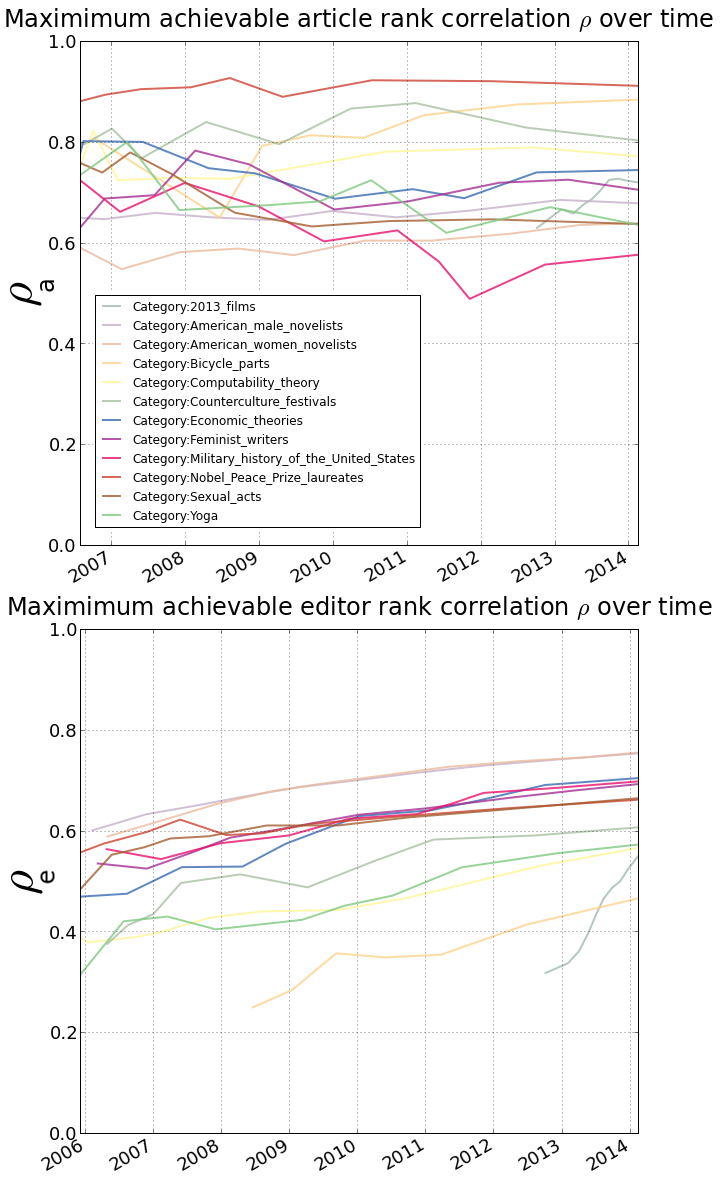
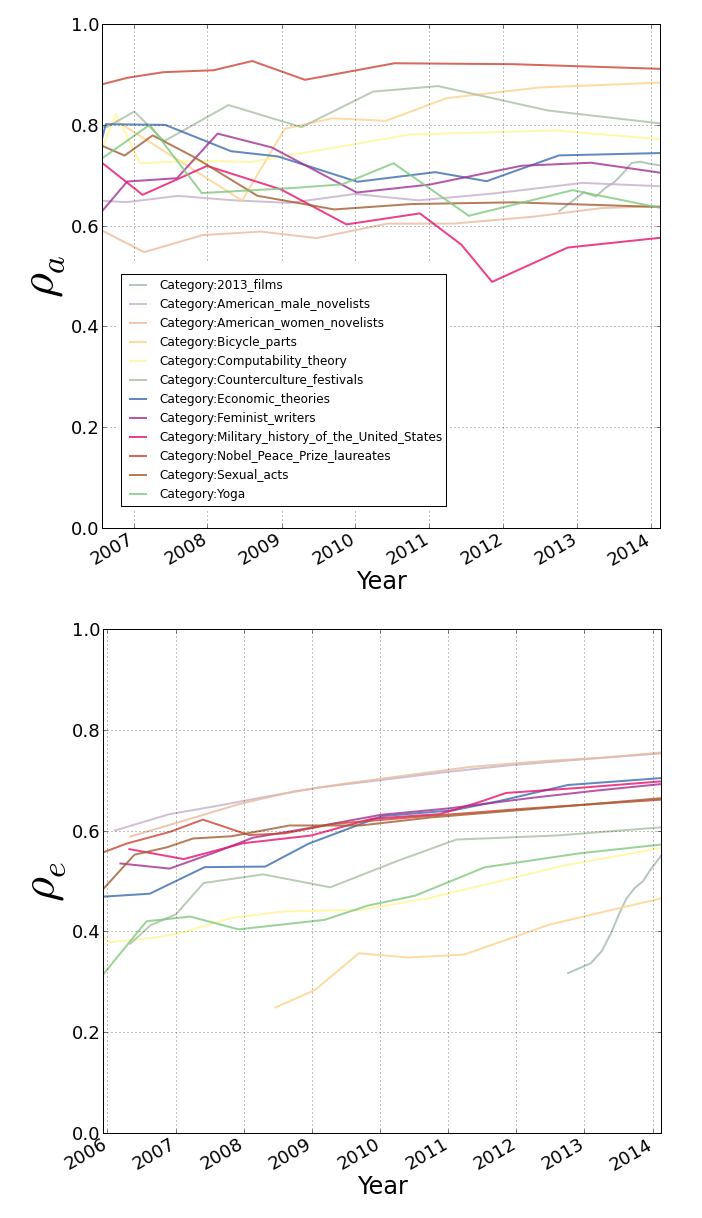
incorportaed alpha 0 results

diff --git a/paper/sections/results.tex b/paper/sections/results.tex
@@ -1,14 +1,14 @@
 \section{Results}
-For country-product bi-partite networks,  Caldarelli et al. \cite{caldarelli2012network} found that the ranking of countries correlates reasonably well with their ranking in terms of GDP, after calibration of $\alpha$ and $\beta$ (Pearson correlation $\approx 0.4$ for $\alpha \approx 1.1$ and $\beta \approx 0.8$). Similarly, we studied the correlations of the editors/articles ranking model with grand-truth exogenous values. We studied how these correlations evolve as more edits are contributed to a category of Wikipedia articles. Finally, we investigated the values of calibrated $\alpha$ and $\beta$ in the context of Wikipedia open collaboration.
+For country-product bi-partite networks,  Caldarelli et al. \cite{caldarelli2012network} found that the ranking of countries correlates reasonably well with their ranking in terms of GDP, after calibration of $\alpha$ and $\beta$ (Spearman correlation $\approx 0.4$ for $\alpha \approx 1.1$ and $\beta \approx 0.8$). Similarly, we studied the correlations of the editors/articles ranking model with grand-truth exogenous values. We studied how these correlations evolve as more edits are contributed to a category of Wikipedia articles. Finally, we investigated the values of calibrated $\alpha$ and $\beta$ in the context of Wikipedia open collaboration.
 
-Figure \ref{fig:rhotime} shows the evolution of the rank correlation (Spearman $\rho$) between $\mathbf{w}^*_e$ and $\mathbf{v}_e$, and $\mathbf{w}^*_a$ and $\mathbf{v}_a$ respectively, as a function of time for each of the ten categories ($\alpha$ and $\beta$ are calibrated for each category and each snapshot so that maximum correlation is found). The maximum rank correlation is obtained by a grid seach, and then visualization drawing a contour around the areas in the top 95th percentile.
+Figure \ref{fig:rhotime} shows the evolution of the maximum achievable rank correlation (Spearman $\rho$) between $\mathbf{w}^*_a$ and $\mathbf{v}_a$ and $\mathbf{w}^*_e$ and $\mathbf{v}_e$, respectively, as a function of time for each of the ten categories.  The maximum rank correlation is obtained by a grid search, and then visualization drawing a contour around the areas in the top 95th percentile.
 The correlations are generally quite high ( $ 0.46 < \rho_e < 0.75$ with $\langle \rho_e\rangle = 0.64$ for editors and $0.57 < \rho_a < 0.91$ with $\langle \rho_a\rangle = 0.72$ ). Yet the rank correlations of editors remain overall smaller than rank correlations obtained for articles. This difference might be due to the roughness of the grand truth for editors $v_e$, expressed in labor-hours, compared to the quality of $v_a$, which is an aggregate measure of five precise quality metrics. Nevertheless, the correlation of editors' ranking with $v_e$ increases: $\rho_e$ exhibits a convex increase over time, suggesting that it takes time (i.e., lots of edits) to capture well the expertise of editors as well as for editors. 
 
 
  \begin{figure}[!t]
  \centering
 \includegraphics[width=0.9\columnwidth]{Figures/rho_combined.png}.
-\caption{Evolution of Spearman $\rho$ rank correlations between the ranking obtained from the calibrated model and the grand-truth values for each category and for editors (upper panel)  and articles (lower panel). The correlations are generally quite high : $ 0.46 < \rho_e < 0.75$ with $\langle \rho_e\rangle = 0.64$ for editors and $0.57 < \rho_a < 0.91$ with $\langle \rho_a\rangle = 0.72$. $\rho_{a}$  is stable over time, which means that the quality of articles can be pretty well captured early on by the model. However, $\rho_e$ exhibits a convex increase over time, suggesting that it takes time (i.e., lots of edits) to capture well the expertise of editors.{\it [please add a label for the x-axis (i.e., Time [years]) and change $\rho$ into $\rho_e$ and $\rho_a$ respectively. You can remove the titles above the  plots]}}
+\caption{Evolution of Spearman $\rho$ rank correlations between the ranking obtained from the calibrated model and the grand-truth values for each category and for editors (upper panel)  and articles (lower panel). The correlations are generally quite high : $ 0.46 < \rho_e < 0.75$ with $\langle \rho_e\rangle = 0.64$ for editors and $0.57 < \rho_a < 0.91$ with $\langle \rho_a\rangle = 0.72$. $\rho_{a}$  is stable over time, which means that the quality of articles can be pretty well captured early on by the model. However, $\rho_e$ exhibits a convex increase over time, suggesting that it takes time (i.e., lots of edits) to capture well the expertise of editors.}
  \label{fig:rhotime}
  \end{figure}
 
@@ -16,12 +16,39 @@ The correlations are generally quite high ( $ 0.46 < \rho_e < 0.75$ with $\langl
 
 We now turn to the values of $\alpha$ and $\beta$ for which best correlation is achieved.  
 
-With regards to \eqref{eqsim}, we can see the similarity of $w^*$ is related to the product of two expressions. Values of $\alpha$ and $\beta$ can make the one of the product approach one or and so the other parameter may dominate {\bf [fix this sentence]} . In the article plot of Figure \ref{fig:landscape} our solution spaces moves linearly from $ \beta < 1 , \alpha \approx 0$ meaning that successful articles are largely uninfluenced by quality of the work its editors do elsewhere. For editors, on the other hand there is a more complex spectrum of interpretations. Roughly we find a maxmizing area bounded $ -2  <\alpha < 1 , 0 < \beta > 2 $. This means that good editors are charaterized minorly by the quality of the articles they've contributed to and partly by the size of their touched articles portfolio, or in the case that alpha becomes negative that contributed-to aritcle quality is supremely important that touching many articles is anti-important.
+With regards to \eqref{eqsim}, we can see the similarity of $w^*$ is related to the product of two expressions. Consider he limit as either $\alpha$ or $\beta$ approach $0$ independently, if one expression becomes unity, then the other expression dominates. In the article plot of Figure \ref{fig:landscape} our solution spaces moves linearly from $ \beta < 1 , \alpha \approx 0$ meaning that successful articles are largely uninfluenced by quality of the work its editors do elsewhere. This "spine" at $alpha = 0$ is a common feature in all our categories.
+ For editors, on the other hand there is a more complex spectrum of interpretations. In  \ref{fig:landscape}, we find a maximizing area roughly bounded $ -2  <\alpha < 1 , 0 < \beta > 2 $. This means that fit editors are characterized by a the spectrum defined by the extremes (i) minorly by the quality of the articles they've contributed to and partly by the size of their touched articles portfolio, or in the case that alpha becomes negative that contributed-to aritcle quality is supremely important that touching many articles is anti-important.
 
+The question remains if the intersection of the solution spaces for $\rho_a$ and $\rho_e$ is nonempty. That is whether the we can find values of $\alpha$ and $\beta$ for to which our editor ranking and article ranking are simultaneously optimized. We exploit two empirical facts from our data: the clear signal from article rankings that $alpha = 0$, and that for editor rankings the 95\textsuperscript{th} percentile maximizing boundary always includes values at $\alpha = 0$. Therefore, with $\alpha = 0$, we solve $\beta$ in the editor ranking that maximizes $\rho_e$, and thus $\rho_a$ simultaneously. 
 
-Figure \ref{fig:ladndscape} shows typical landscapes of correlation as a function of $\alpha$ and $\beta$ for editors and articles. It appears that there is no single value of $\alpha$ and $\beta$ for best correlation, but rather some areas (showed by the contour line on Figure \ref{fig:landscape} as the 95th percentile of the rank correlation).
+In \ref{landscape} the simultaneous maximizing solution exists at the $\alpha = 0, \beta \approx 0.7$. This means that article ubiquity is more important than editor prolific output, in ranking editors and articles.
 
-The question remains if the intersection of the solution spaces for $\rho_a$ and $\rho_e$ is nonempty. That is whether the we can find values of $\alpha$ and $\beta$ for to which our editor ranking and article ranking are simultaneously optimized. In \ref{landscape} such simultaneous optimizing solution space exists at the $\alpha \approx 0$ $\beta \approx 0.8$ Which is when article ubiquity is more important than editor prolific output.
+\ref{tab:maxbeta} lists each category by its maximizing $\beta$ value.. Recall higher $\beta$ indicates the importance of article ubiquity. Noting that \eqref{eqsim} has a singularity at $\beta = 1$ we see that if $\beta > 1$ we actually enter into the symmetric reflection of the plot where the sign of our correlations is reverse. Since the magnitude of the anti-correlation is equal along the $\alpha = 0$ spine, this is not a problem.
+We also find, as in the first two entries of \ref{tab:maxbeta}, that a maximizing $\beta$ may be $0$, in this case, the original \cite{hidalgo2009} algorithm would be just as predictive. 
+
+\begin{table}
+\end{table}
+\begin{tabular}{lll}
+\toprule
+                                       Category &   Spearman $\rho$ &  $\beta$ \\
+\midrule
+                         Bicycle parts &  0.8953 &     0 \\
+ Military history of the US &  0.5767 &     0 \\
+                  Computability theory &  0.7748 &  0.32 \\
+               American male novelists &  0.6729 &   0.4 \\
+                            2013 films &  0.7220 &  0.48 \\
+                     Economic theories &  0.7382 &  0.48 \\
+              American women novelists &  0.6304 &  0.64 \\
+                      Feminist writers &  0.7036 &  0.72 \\
+                                  Yoga &  0.6355 &  1.12 \\
+           Nobel Peace Prize laureates &  0.9096 &   1.2 \\
+              Counterculture festivals &  0.8031 &  1.36 \\
+                           Sexual acts &  0.6341 &  1.52 \\
+\bottomrule
+\end{tabular}
+\caption{Maximizing values of $\beta$ when $\alpha = 0$, sorted by $\beta$.}
+\label{tab:maxbeta}
+\end{table}
 
 \begin{figure}[!t]
 \centering
